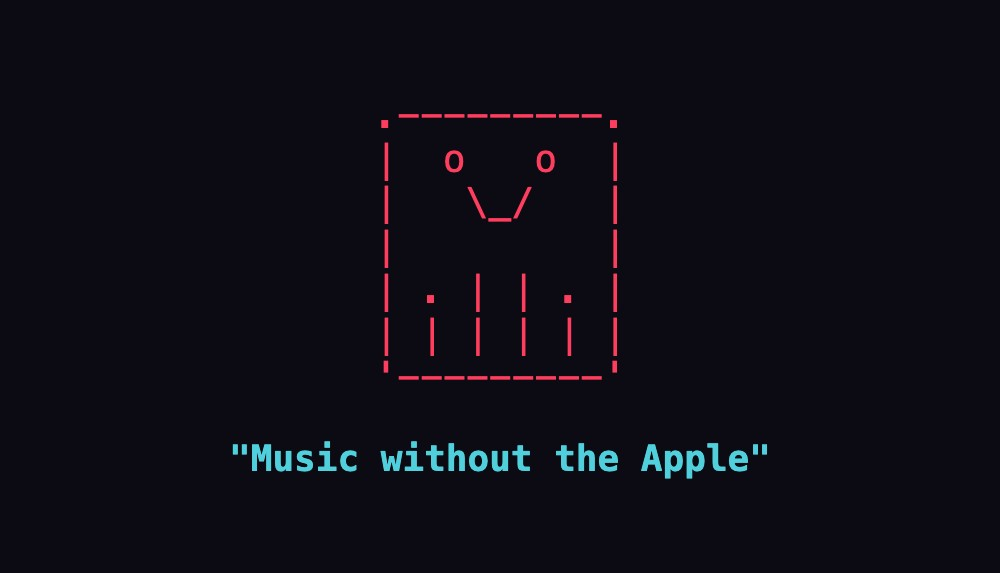
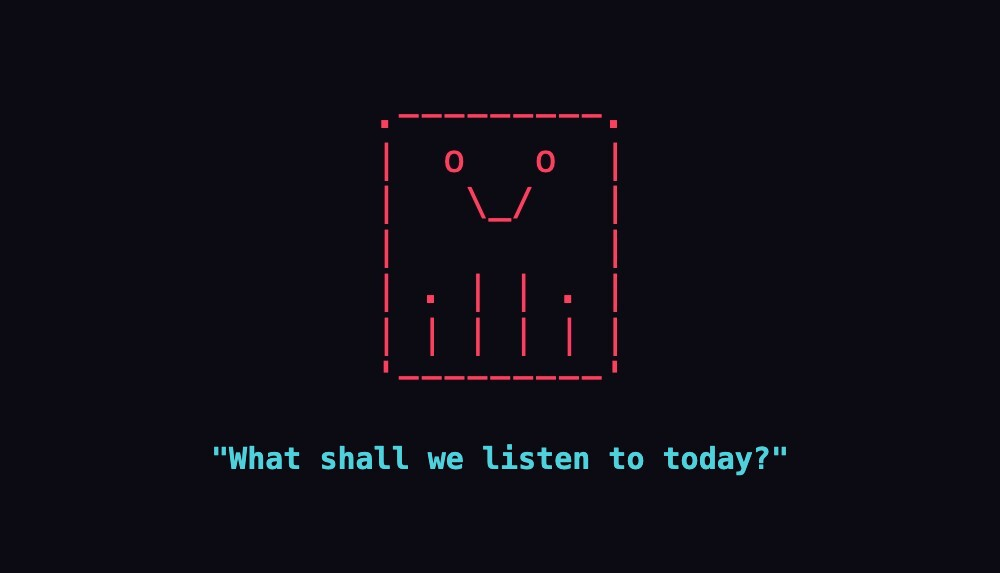
Publish 2026-11-03 19:05
DCMSX-Source: 163e8be6640c543b0ece6976571a6401aa62296f

Changed region(s): [[0.217, 0.7714, 0.806, 0.8307]]

diff --git a/software/index.html b/software/index.html
@@ -75,20 +75,6 @@
         </div>
     </div>
 </div>
-<div class="padded-container">
-    <div class="center-image feature-image-960 drop-shadow">
-        <a href="/software/local-music-player/" class="promo-video-hover">
-        <img src="/media/site/software/local-music-player-banner-s.jpg" alt="Local Music Player" loading="lazy">
-        </a>
-        <div class="padding-top-r display-inline-block"></div>
-        <span class="grid-name display-inline-block software-promo"><strong>Local Music Player</strong><br><span class="promo-blurb">Music without the Apple. He plays what's actually on your phone.</span></span>
-        <div class="inline-button-container padding-top-r padding-bottom-25 promo-btn--tight">
-        <a href="/software/local-music-player/" class="no-decoration">
-        <div class="home-button inline-button home-button--compact">Find out more</div>
-        </a>
-        </div>
-    </div>
-</div>
 </div>
 <div class="padding-top page-title-pad" style="--pad-top:50px"></div>
 <div class="text-block align-center-d"><h1 class="page-title page-title--large"><span class="pt-lead">AudioTheory</span></h1>
